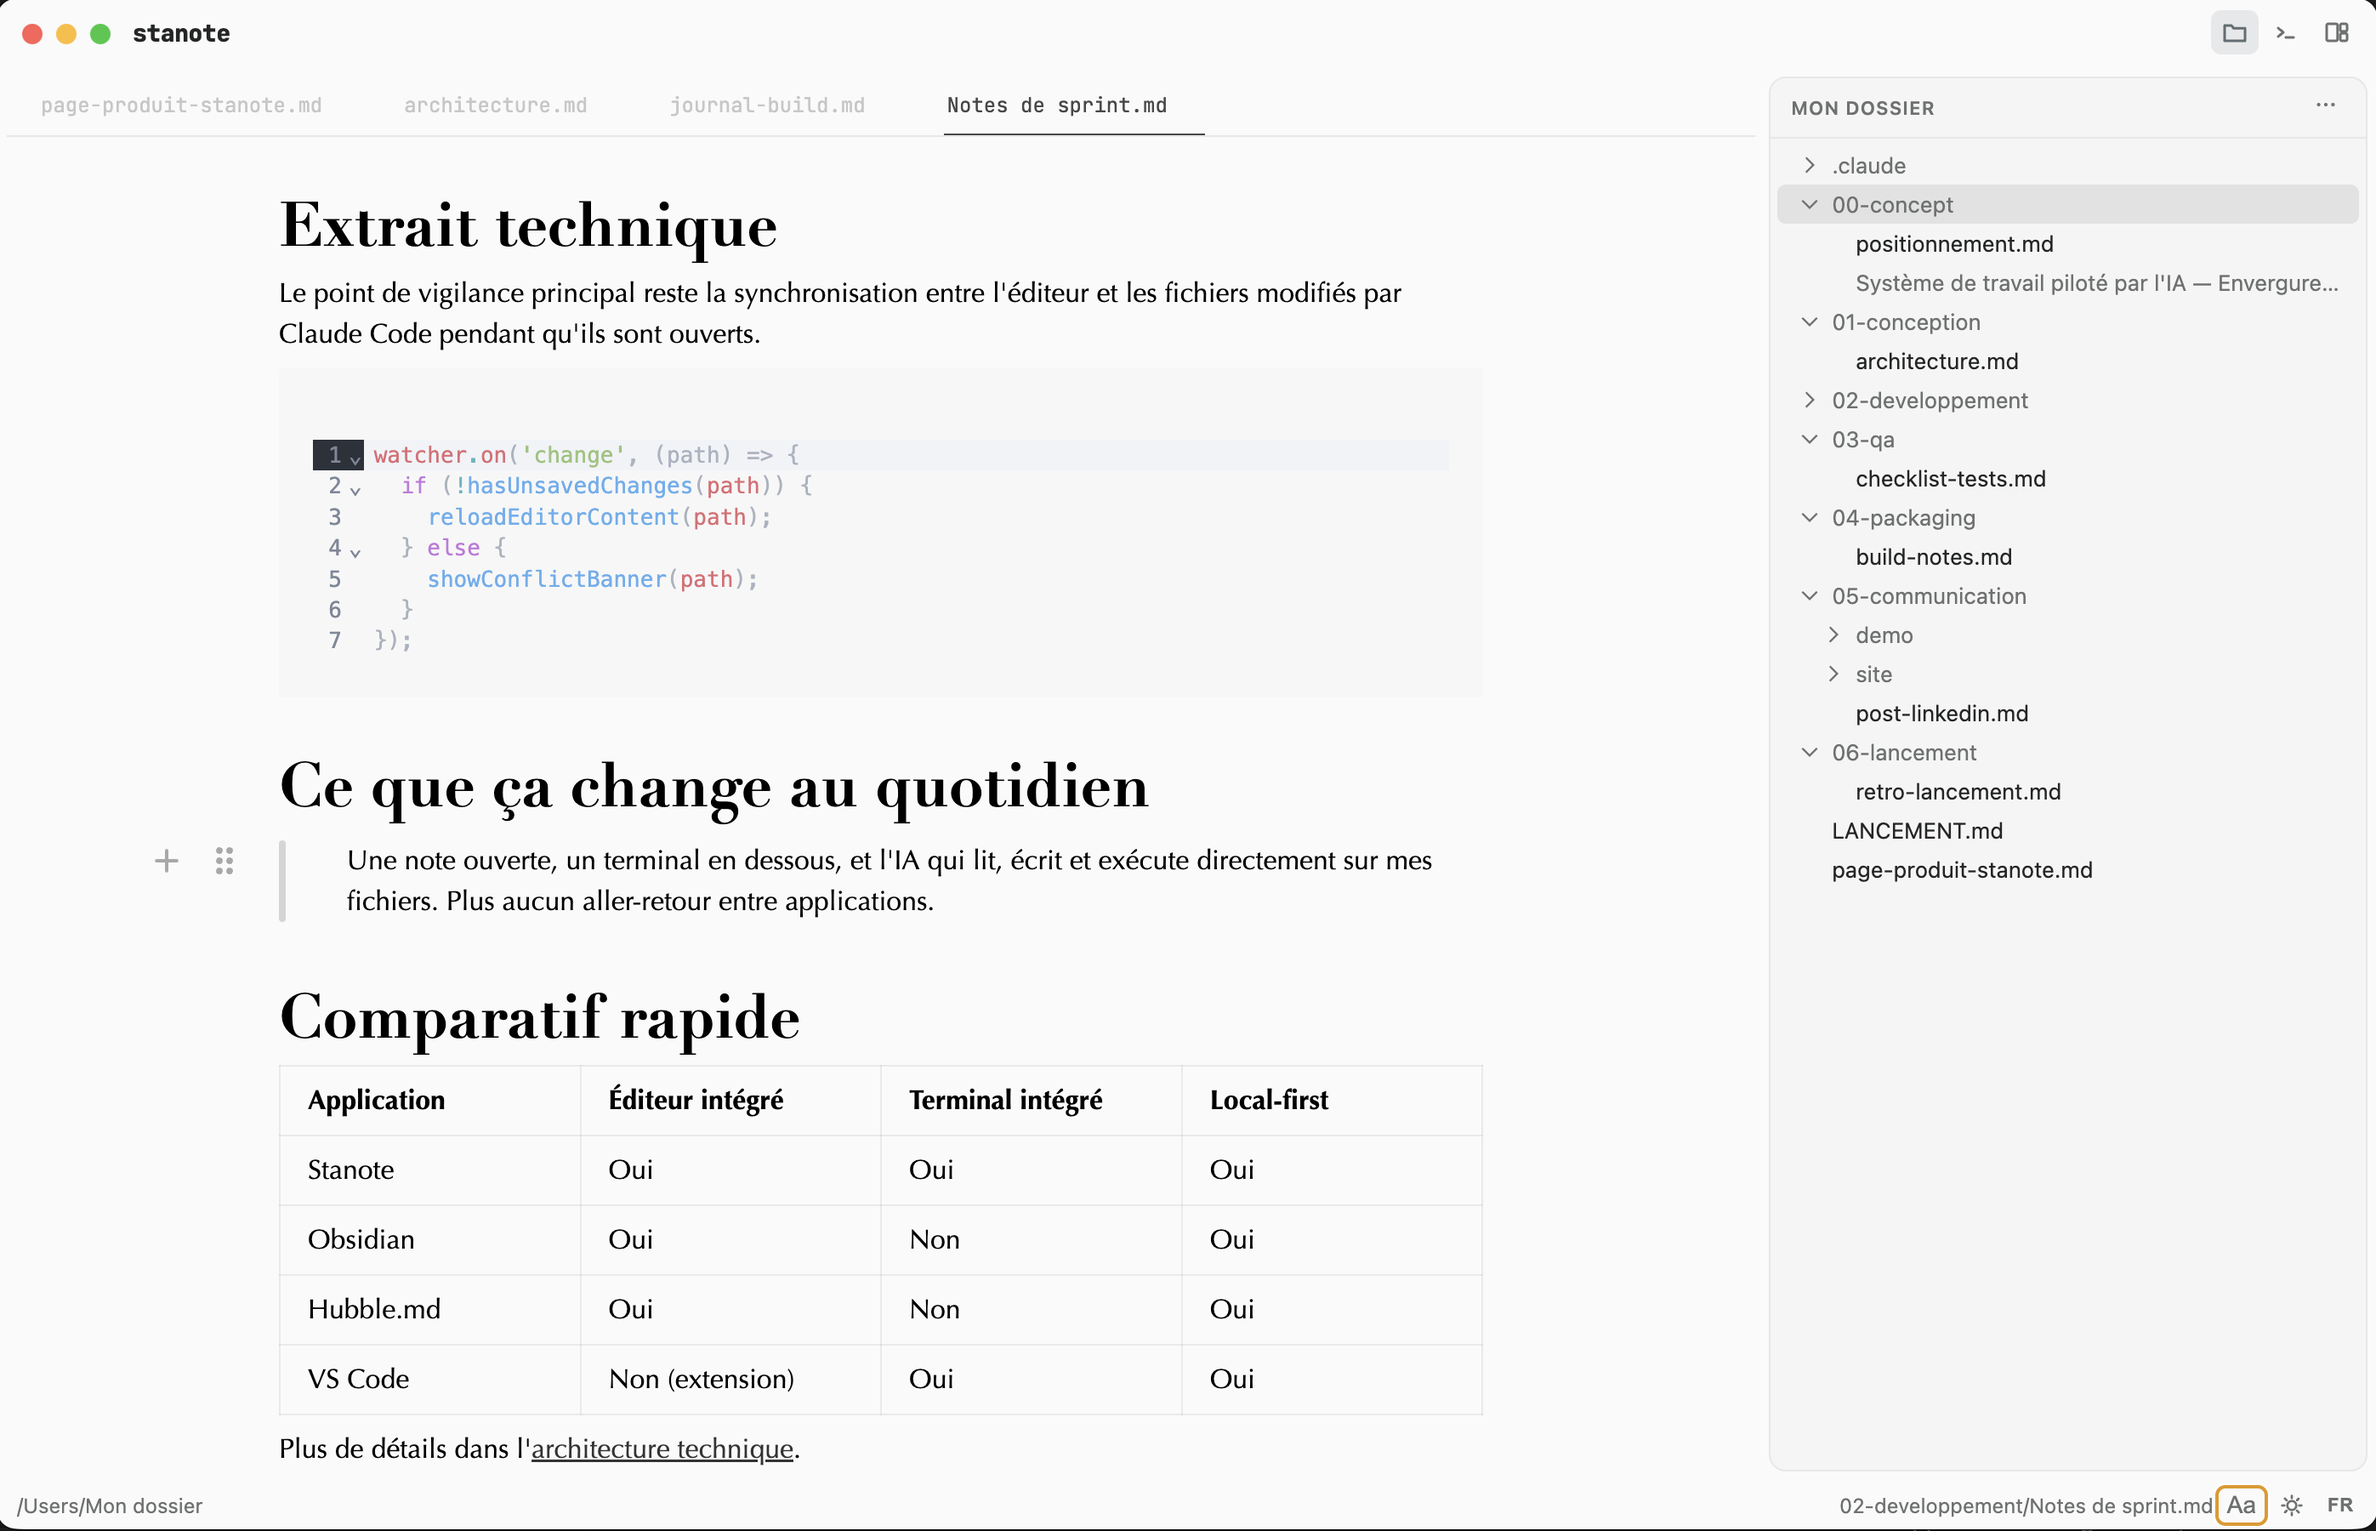
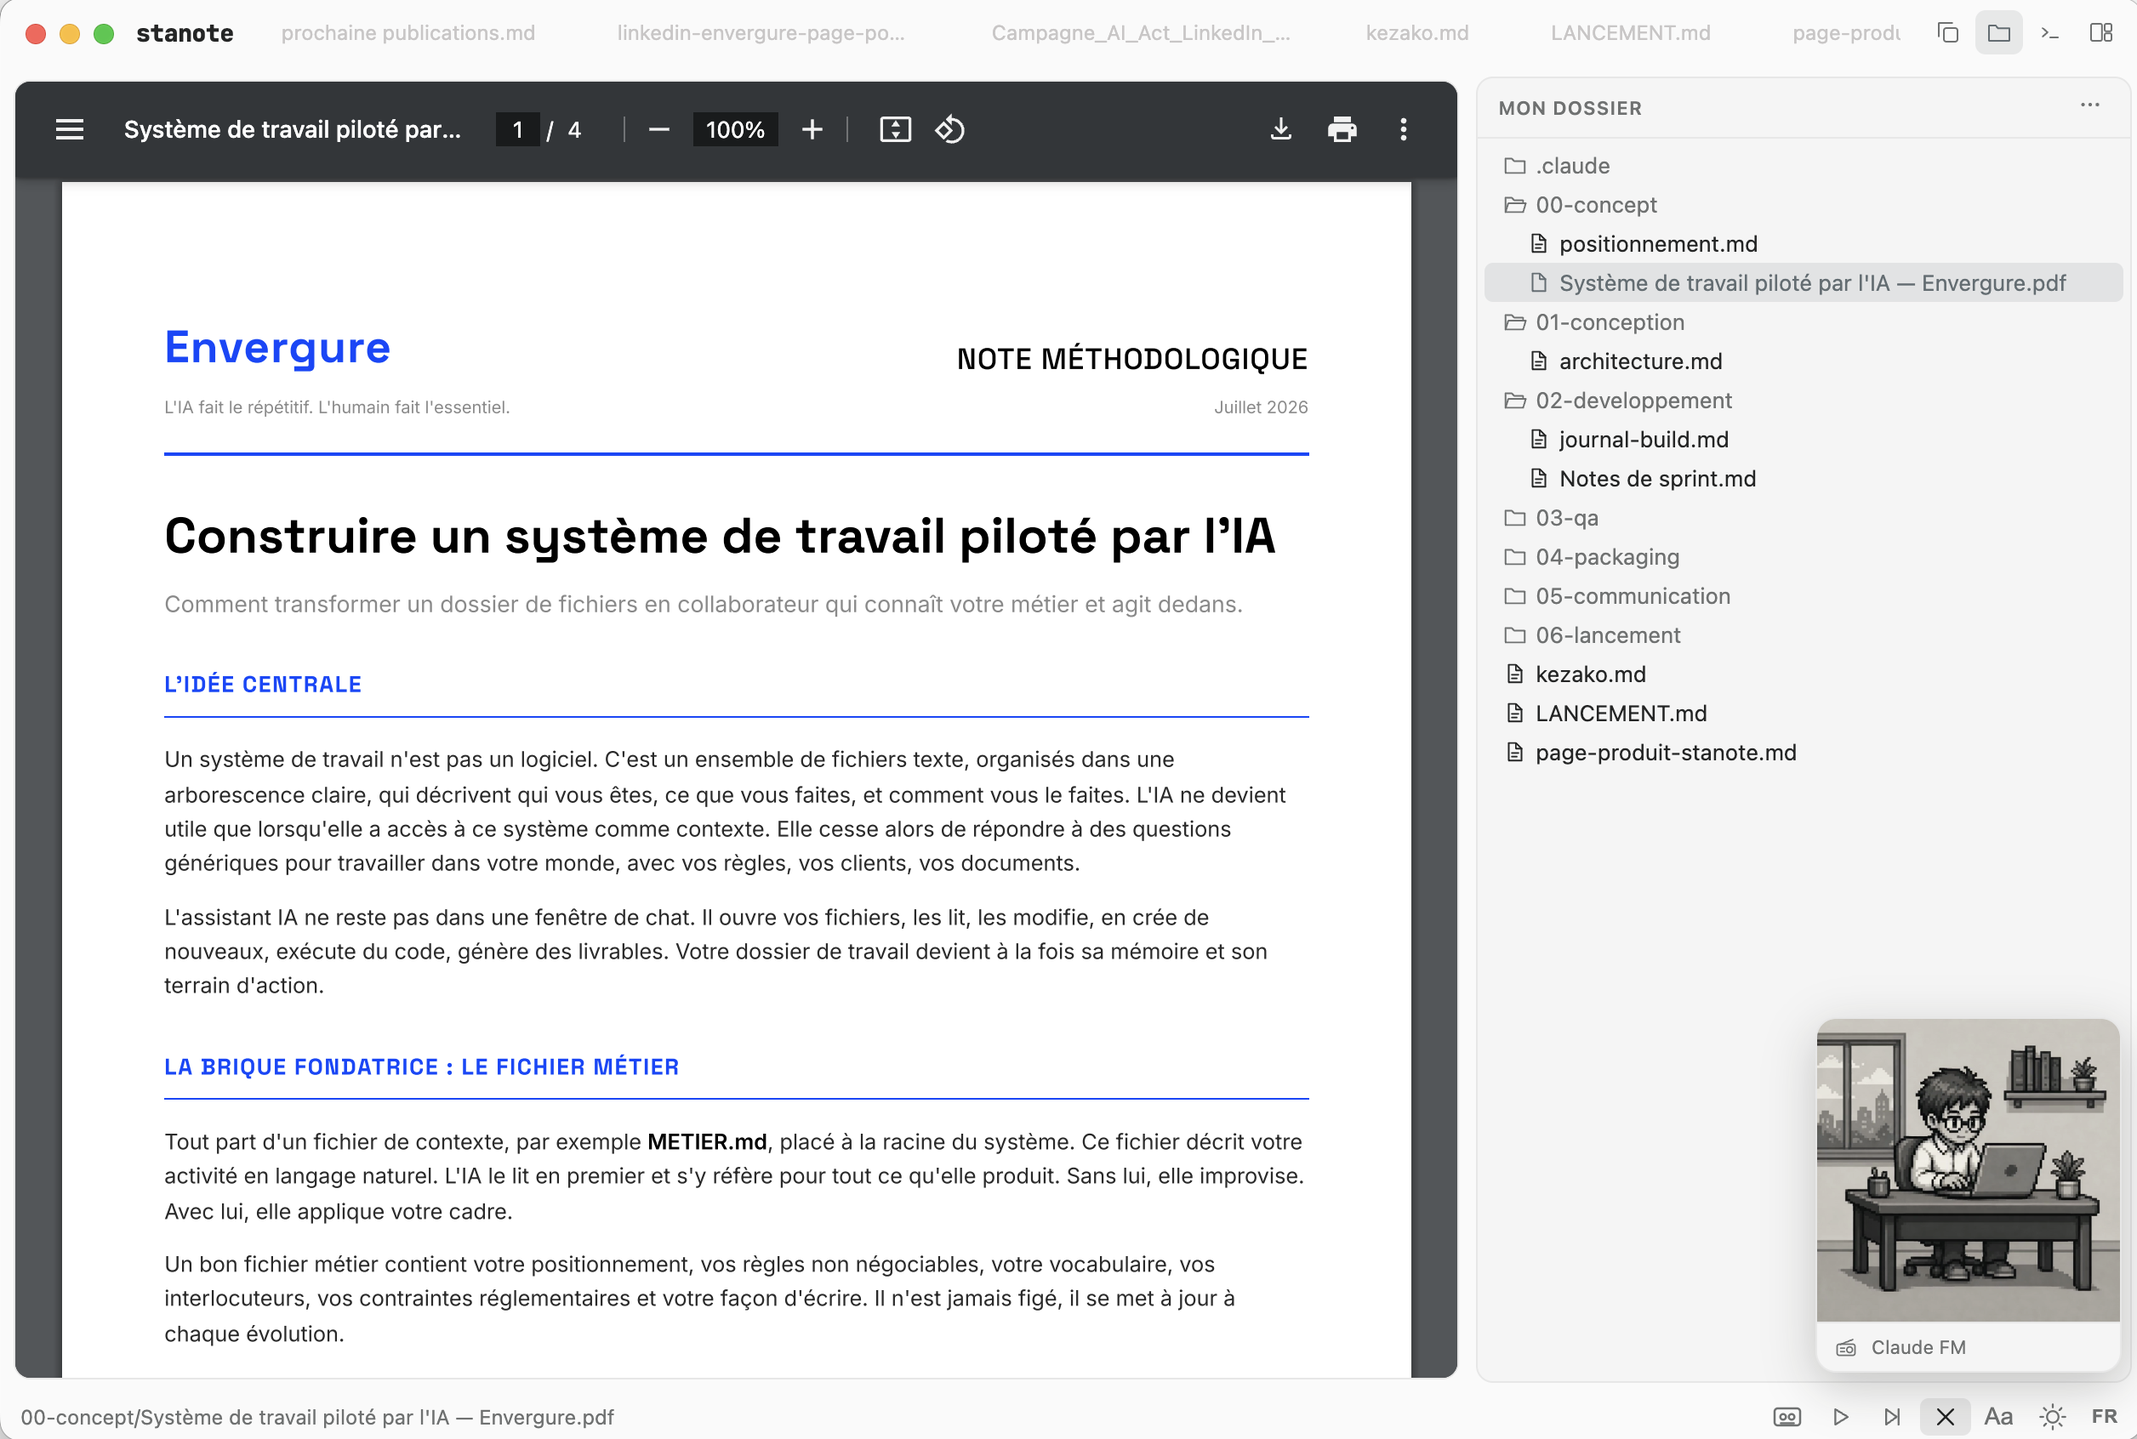
docs: refresh README and screenshots

diff --git a/README.md b/README.md
@@ -1,55 +1,58 @@
 <div align="center">
   <img src="build/icon.png" alt="Stanote" width="120" />
   <h1>Stanote</h1>
-  <p><strong>Vos notes markdown, un terminal et vos fichiers — dans une seule fenêtre.</strong></p>
-  <p>Un éditeur de notes local pour macOS, pensé pour celles et ceux qui écrivent <em>et</em> codent.</p>
+  <p><strong>Un environnement de travail local pour écrire, structurer vos fichiers et utiliser l’IA dans le contexte de vos projets.</strong></p>
+  <p>Notes, documents, terminal et assistant IA réunis autour d’un même dossier.</p>
 </div>
 
 ---
 
-Stanote réunit trois outils que vous jonglez toute la journée : un éditeur markdown WYSIWYG, un vrai terminal et un navigateur de fichiers. Ouvrez un dossier de projet, rédigez vos notes en mise en forme directe, et lancez vos commandes juste à côté — sans quitter l'application. Quand un outil en ligne de commande modifie un fichier ouvert, l'éditeur se met à jour tout seul. Vos notes restent de simples fichiers `.md` sur votre disque : rien n'est enfermé.
+Stanote est un éditeur de notes et de fichiers pour macOS. Il s’organise autour de votre dossier de travail : vous écrivez en Markdown, consultez vos documents, modifiez les fichiers utiles et utilisez votre assistant IA sans perdre le contexte du projet.
+
+Les fichiers restent sur votre Mac, dans leurs formats habituels. Stanote n’impose ni cloud ni format propriétaire.
 
 ## Aperçu
 
 <div align="center">
-  <img src="assets/screenshots/apercu.png" alt="Stanote — éditeur et terminal, thème sombre" width="49%" />
-  <img src="assets/screenshots/apercu2.png" alt="Stanote — disposition barre latérale, thème clair" width="49%" />
+  <img src="assets/screenshots/apercu.png" alt="Stanote — éditeur, fichiers et assistant dans un même espace de travail" width="49%" />
+  <img src="assets/screenshots/apercu2.png" alt="Stanote — consultation de PDF et radio intégrée" width="49%" />
 </div>
 
 ## Fonctionnalités
 
-- **Éditeur markdown WYSIWYG** — mise en forme directe (titres, gras, listes, tâches, tableaux, code, citations), menu de commandes « / », onglets multiples et sauvegarde automatique. Interface entièrement bilingue (français / anglais).
-- **Terminal intégré** — un vrai shell (zsh) ouvert dans le dossier de votre projet. Idéal pour lancer vos scripts ou vos assistants en ligne de commande sans changer de fenêtre.
-- **Synchronisation disque** — un fichier ouvert modifié à l'extérieur se recharge silencieusement ; en cas de modifications non enregistrées, un bandeau vous laisse choisir. Pensé pour cohabiter avec les outils qui écrivent dans vos fichiers.
-- **Navigateur de fichiers** — arbre du dossier, créer / renommer / supprimer, « Révéler dans le Finder », fichier actif surligné, rafraîchissement automatique.
-- **Recherche instantanée** — recherche plein texte dans tout le dossier (ripgrep) et ouverture rapide d'un fichier par son nom (`⌘P`).
-- **Trois dispositions & multi-fenêtres** — éditeur à gauche, à droite, ou en barre latérale — au choix, d'un clic. Ouvrez autant de projets que nécessaire dans des fenêtres indépendantes.
-- **Visionneuse intégrée** — aperçu des PDF, images et fichiers HTML sans quitter votre espace de travail.
-- **Export PDF** — exportez n'importe quelle note en PDF mis en forme.
-- **Sur mesure** — thème clair (blanc tiède) ou sombre, et un choix de couples de polices (SF Pro, Didot, Futura, Optima).
-- **Local d'abord** — vos notes sont de simples fichiers markdown sur votre machine. Aucun cloud, aucun format propriétaire.
+- **Éditeur Markdown** — mise en forme directe pour les notes, documents, listes, tableaux et extraits de code. Plusieurs fichiers peuvent rester ouverts, avec sauvegarde automatique.
+- **Dossier de travail** — navigateur de fichiers, recherche plein texte, ouverture rapide, création, renommage et synchronisation avec les changements réalisés hors de l’application.
+- **IA dans le contexte du projet** — le panneau Claude permet de travailler à partir du dossier ouvert : l’assistant peut lire, modifier et créer les fichiers nécessaires au projet.
+- **Fichiers texte et pages web** — les formats usuels s’ouvrent dans un éditeur adapté. Les pages HTML peuvent être consultées sous forme de rendu interactif ou modifiées directement.
+- **Terminal intégré** — exécutez vos commandes dans le dossier du projet, sans changer d’application.
+- **Consultation de documents** — aperçu des PDF, images et pages web au sein de l’interface.
+- **Interface configurable** — thèmes clair et sombre, choix de polices, dispositions de panneaux et fenêtres de projet indépendantes.
+- **Radio intégrée** — un lecteur discret dans la barre de statut, partagé entre les fenêtres ouvertes.
+- **Données locales** — vos notes restent des fichiers Markdown et vos documents ne quittent pas votre machine.
 
 ## Installation
 
-Stanote est une application de bureau. Téléchargez la dernière version depuis la [page des releases](https://github.com/stefanands/stanote/releases) (macOS, puce Apple).
+**[Télécharger Stanote pour Mac](https://github.com/stefanands/stanote/releases/latest)** — compatible avec les Mac équipés d’une puce Apple (M1, M2, M3, M4…).
 
-> L'application n'est pas signée (distribution personnelle). Au premier lancement, macOS peut la bloquer — clic droit sur l'app → **Ouvrir**, puis confirmez. (Les builds signés/notarisés sont pris en charge en CI ; voir plus bas.)
+Ouvrez le fichier DMG, puis faites glisser Stanote dans le dossier **Applications**.
+
+> L’application est signée et notarisée par Apple : elle s’ouvre normalement depuis macOS.
 
 ## Compiler depuis les sources
 
-Prérequis : **Node.js 20+**, **npm**, et les **outils en ligne de commande Xcode** (pour le module natif `node-pty`).
+Prérequis : **Node.js 20+**, **npm**, et les outils en ligne de commande Xcode.
 
 ```bash
 git clone https://github.com/stefanands/stanote.git
 cd stanote
-npm install          # recompile aussi node-pty pour Electron (postinstall)
-npm run dev          # lancer en développement
-npm run dist:mac     # produire un .dmg dans release/
+npm install
+npm run dev
+npm run dist:mac
 ```
 
-## Stack technique
+## Technique
 
-Electron · electron-vite · React · TypeScript · [Milkdown](https://milkdown.dev) (éditeur) · [xterm.js](https://xtermjs.org) + node-pty (terminal) · [@vscode/ripgrep](https://github.com/microsoft/vscode-ripgrep) (recherche) · react-resizable-panels · zustand.
+Stanote est construit avec Electron, React, TypeScript, Milkdown et xterm.js.
 
 ## Contribuer
 
